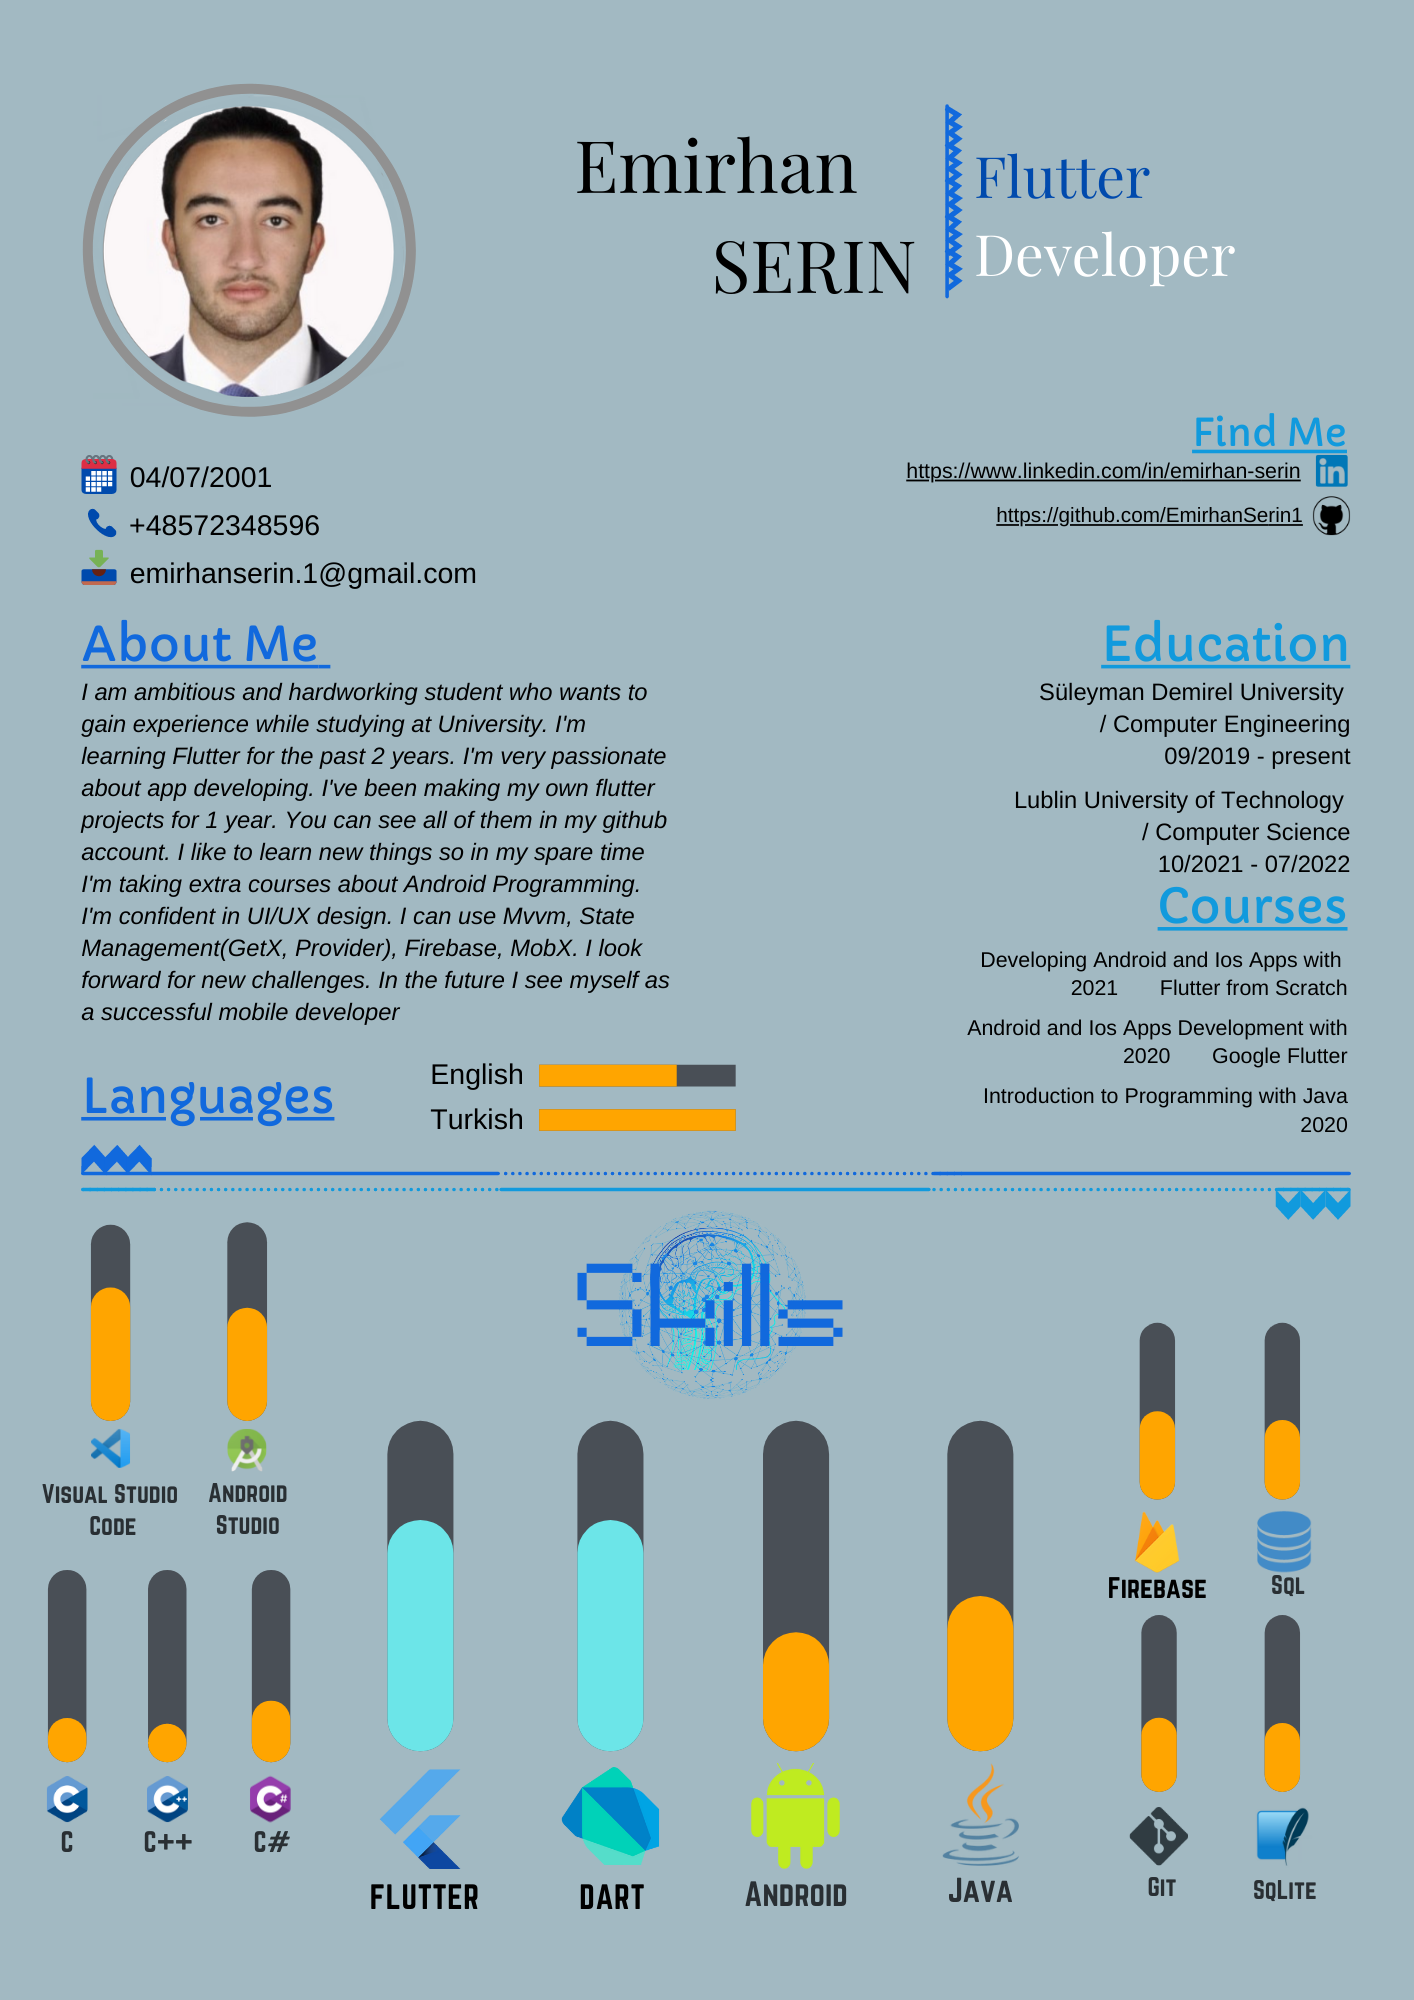
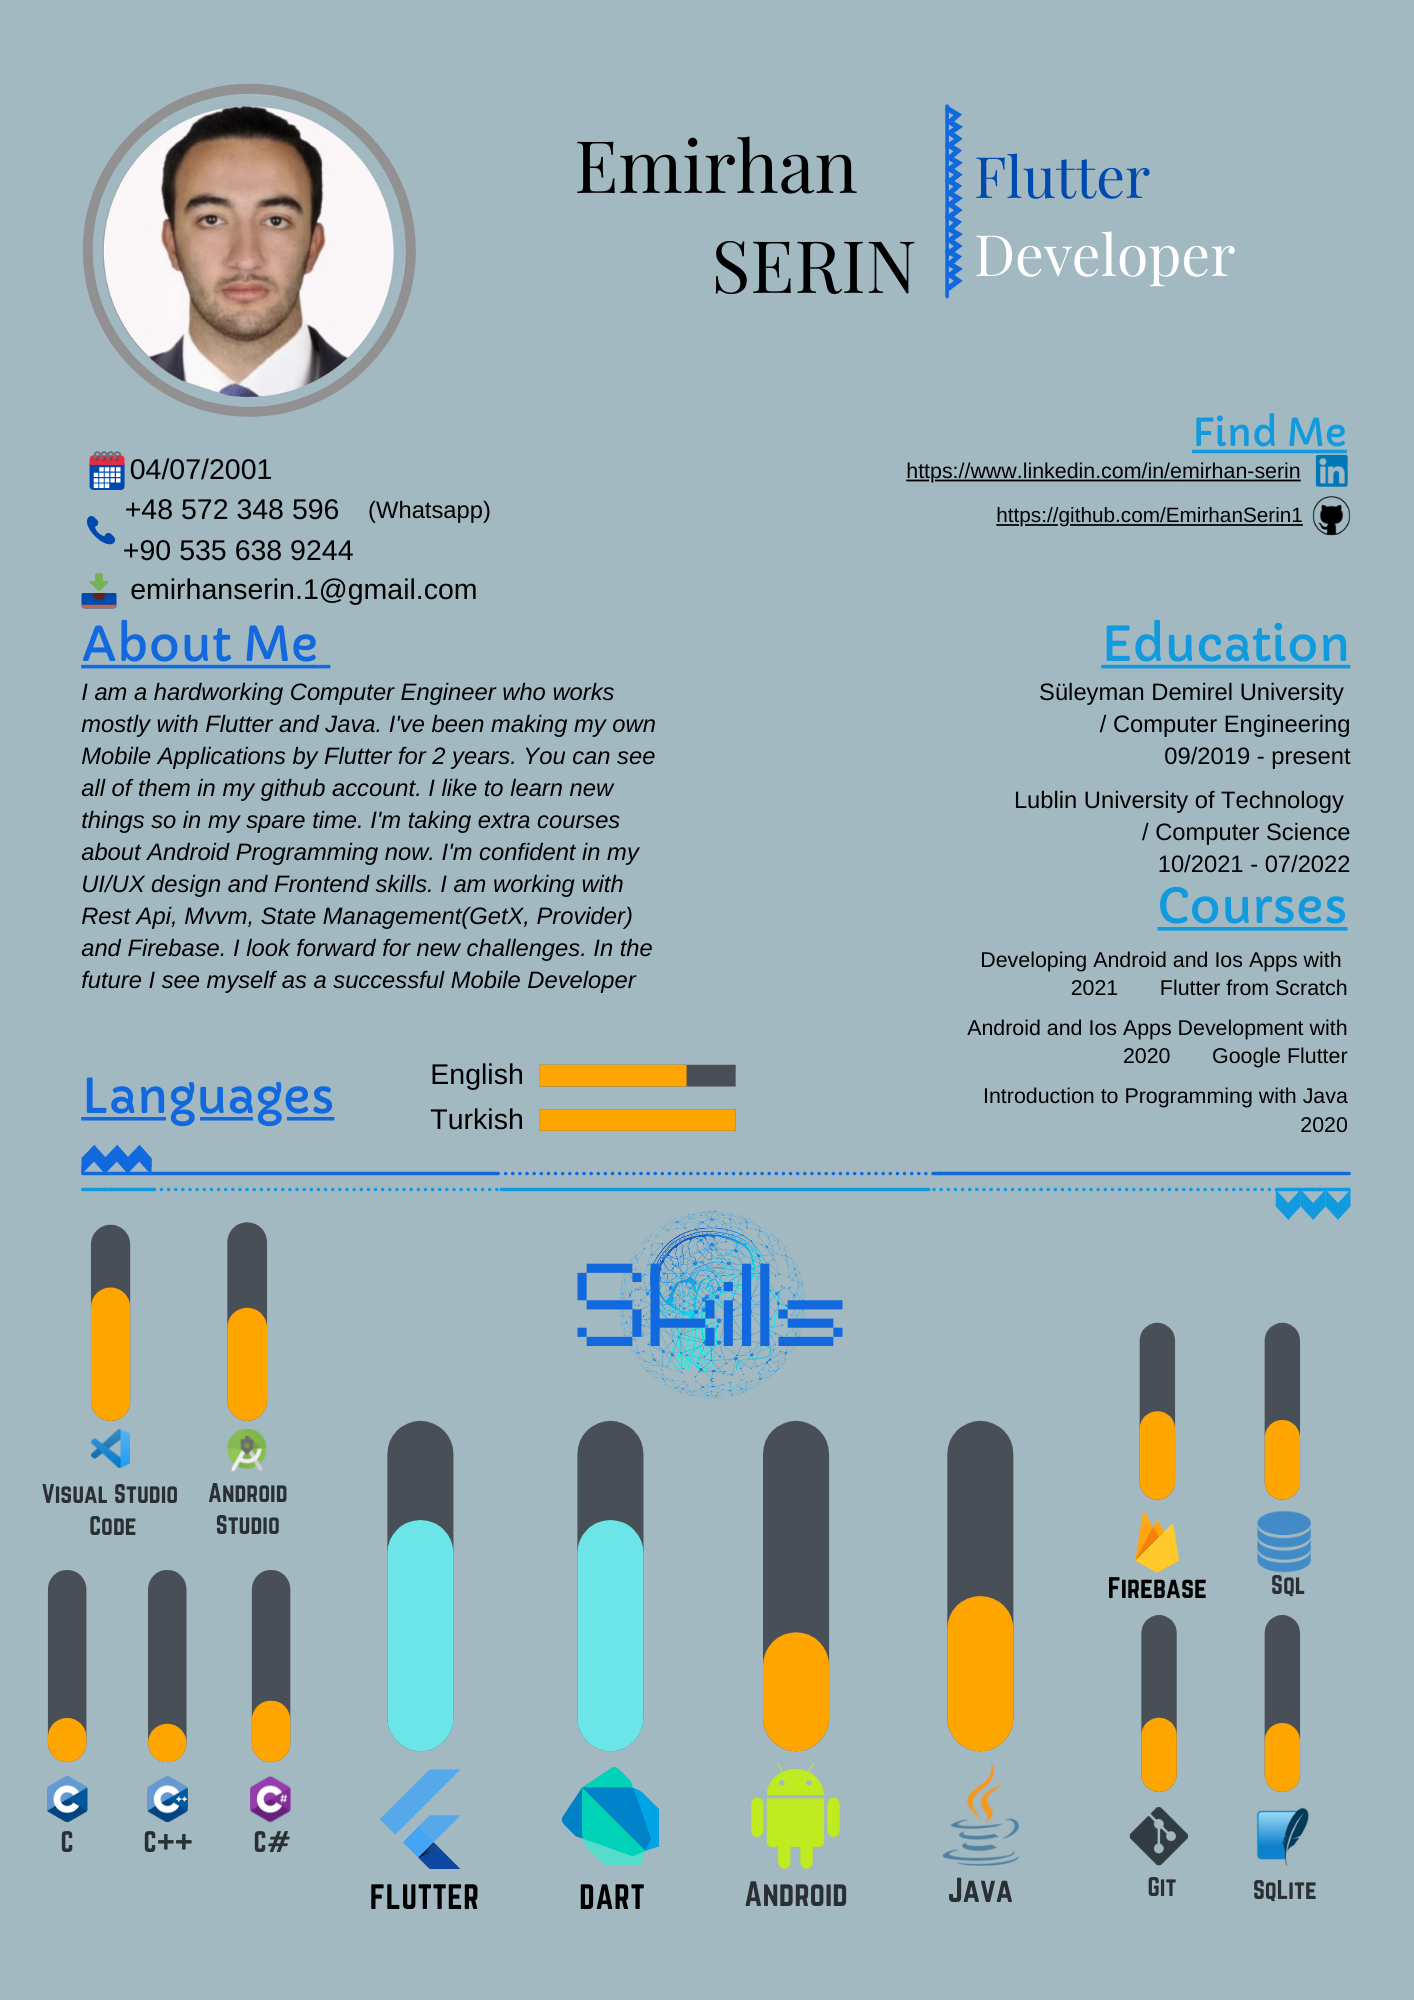
Added new cv and edited README.md

Changed region(s): [[0.0622, 0.341, 0.4668, 0.527], [0.0622, 0.217, 0.3423, 0.31]]

diff --git a/README.md b/README.md
@@ -31,5 +31,5 @@
 
 <p float="left">
   <img src="1.png" width="405" >
-  <img src="cv2.png" width="405" >
+  <img src="2.png" width="405" >
 </p>
